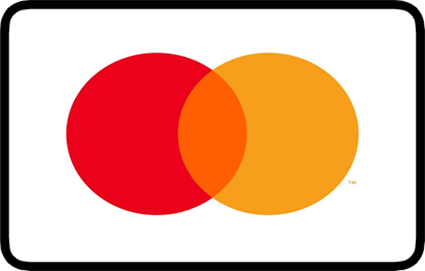
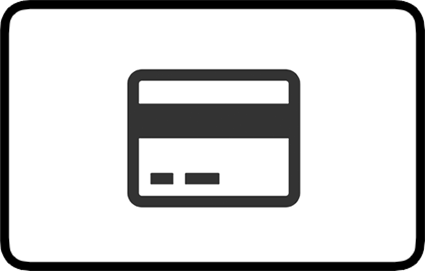
payment config

diff --git a/src/apps/events/admin/components/eventform/index.js b/src/apps/events/admin/components/eventform/index.js
@@ -1,11 +1,11 @@
 import ContactConfig from './contact_config'
 import TicketConfig from './ticket_config'
 import Confirmation from './confirmation'
-import TicketTypes from './ticket_types'
 import { Stack } from 'maha-admin'
 import PropTypes from 'prop-types'
 import Sessions from './sessions'
 import Programs from './programs'
+import Payment from './payment'
 import Event from './event'
 import React from 'react'
 
@@ -39,7 +39,7 @@ class EventForm extends React.PureComponent {
   _handlePop = this._handlePop.bind(this)
   _handlePush = this._handlePush.bind(this)
   _handleSessions = this._handleSessions.bind(this)
-  _handleTicketTypes = this._handleTicketTypes.bind(this)
+  _handlePayment = this._handlePayment.bind(this)
   _handleTicketConfig = this._handleTicketConfig.bind(this)
   _handleUpdate = this._handleUpdate.bind(this)
 
@@ -48,6 +48,7 @@ class EventForm extends React.PureComponent {
   }
 
   componentDidMount() {
+    // this._handlePush(Payment, this._getPayment())
     this._handlePush(Programs, this._getPrograms())
   }
 
@@ -78,6 +79,16 @@ class EventForm extends React.PureComponent {
       onBack: this._handlePop,
       onChange: this._handleUpdate,
       onDone: this._handleEvent
+    }
+  }
+
+  _getPayment() {
+    const { event } = this.state
+    return {
+      event,
+      onBack: this._handlePop,
+      onChange: this._handleUpdate,
+      onDone: this._handlePayment
     }
   }
 
@@ -118,16 +129,6 @@ class EventForm extends React.PureComponent {
     }
   }
 
-  _getTicketTypes() {
-    const { event } = this.state
-    return {
-      event,
-      onBack: this._handlePop,
-      onChange: this._handleUpdate,
-      onDone: this._handleTicketTypes
-    }
-  }
-
   _handleCancel() {
     this.context.modal.close()
   }
@@ -142,9 +143,19 @@ class EventForm extends React.PureComponent {
     this._handlePush(TicketConfig, this._getTicketConfig())
   }
 
+  _handleCreated({ data }) {
+    this.context.router.close()
+    this.context.modal.close()
+  }
+
   _handleEvent(event) {
     this._handleUpdate(event)
     this._handlePush(Sessions, this._getSessions())
+  }
+
+  _handlePayment({ payment_methods, ticket_types }) {
+    this._handleUpdate({ payment_methods, ticket_types })
+    this._handlePush(ContactConfig, this._getContactConfig())
   }
 
   _handlePrograms(program) {
@@ -180,24 +191,14 @@ class EventForm extends React.PureComponent {
     })
   }
 
-  _handleCreated({ data }) {
-    this.context.router.close()
-    this.context.modal.close()
-  }
-
   _handleSessions({ sessions }) {
     this._handleUpdate({ sessions })
-    this._handlePush(TicketTypes, this._getTicketTypes())
+    this._handlePush(Payment, this._getPayment())
   }
 
   _handleTicketConfig({ ticket_config }) {
     this._handleUpdate({ ticket_config })
     this._handlePush(Confirmation, this._getConfirmation())
-  }
-
-  _handleTicketTypes({ ticket_types }) {
-    this._handleUpdate({ ticket_types })
-    this._handlePush(ContactConfig, this._getContactConfig())
   }
 
   _handleUpdate(value) {

diff --git a/src/apps/events/admin/components/eventform/payment.js b/src/apps/events/admin/components/eventform/payment.js
@@ -1,0 +1,66 @@
+import TicketTypesField from '../tickettypesfield'
+import PropTypes from 'prop-types'
+import { Form } from 'maha-admin'
+import React from 'react'
+
+class TicketTypes extends React.PureComponent {
+
+  static propTypes = {
+    event: PropTypes.object,
+    onBack: PropTypes.func,
+    onChange: PropTypes.func,
+    onDone: PropTypes.func
+  }
+
+  _handleBack = this._handleBack.bind(this)
+  _handleChange = this._handleChange.bind(this)
+  _handleSuccess = this._handleSuccess.bind(this)
+
+  render() {
+    return <Form { ...this._getForm() } />
+  }
+
+  _getForm() {
+    const { event } = this.props
+    return {
+      title: 'Payment',
+      cancelIcon: 'chevron-left',
+      saveText: 'Next',
+      onCancel: this._handleBack,
+      onChange: this._handleChange,
+      onSuccess: this._handleSuccess,
+      sections: [
+        {
+          fields: [
+            { label: 'Ticket Types', name: 'ticket_types', type: TicketTypesField, required: true, defaultValue: event.ticket_types },
+            { label: 'Accepted Payment Methods', name: 'payment_methods', type: 'checkboxes', required: true, options: [
+              { value: 'card', text: 'Credit Card' },
+              { value: 'ach', text: 'ACH' },
+              { value: 'paypal', text: 'PayPal' },
+              { value: 'googlepay', text: 'GooglePay' },
+              { value: 'applepay', text: 'ApplePay' },
+              { value: 'door', text: 'Pay at door' }
+            ], defaultValue: event.payment_methods || ['card','ach','paypal','googlepay','applepay','door'] }
+          ]
+        }
+      ]
+    }
+  }
+
+  _handleBack() {
+    this.props.onBack()
+  }
+
+  _handleChange({ payment_methods, ticket_types }) {
+    const payment_config = { payment_methods }
+    this.props.onChange({ payment_config, ticket_types })
+  }
+
+  _handleSuccess({ payment_methods, ticket_types }) {
+    const payment_config = { payment_methods }
+    this.props.onDone({ payment_config, ticket_types })
+  }
+
+}
+
+export default TicketTypes

diff --git a/src/apps/events/web/registration/components/registration/step4/index.js b/src/apps/events/web/registration/components/registration/step4/index.js
@@ -1,12 +1,15 @@
 import { Button, Loader } from 'maha-client'
 import PropTypes from 'prop-types'
 import React from 'react'
+import _ from 'lodash'
 
 const methods = [
-  { label: 'Google Pay', name: 'googlepay', component: <div>GooglePay</div> },
-  { label: 'PayPal', name: 'paypal', component: <div>PayPal</div> },
   { label: 'Credit Card', name: 'card', component: <div>Card</div> },
-  { label: 'Bank Account', name: 'ach', component: <div>ACH</div> }
+  { label: 'Bank Account', name: 'ach', component: <div>ACH</div> },
+  { label: 'PayPal', name: 'paypal', component: <div>PayPal</div> },
+  { label: 'Google Pay', name: 'googlepay', component: <div>GooglePay</div> },
+  { label: 'ApplePay', name: 'applepay', component: <div>ApplePay</div> },
+  { label: 'Pay at the door', name: 'door', component: <div>Pay at the door</div> }
 ]
 
 class Step4 extends React.Component {
@@ -22,6 +25,7 @@ class Step4 extends React.Component {
   _handleNext = this._handleNext.bind(this)
 
   render() {
+    const methods = this._getMethods()
     const { status } = this.props
     return (
       <div className="registration-panel">
@@ -70,6 +74,14 @@ class Step4 extends React.Component {
       disabled: status !== 'pending',
       handler: this._handleBack
     }
+  }
+
+  _getMethods() {
+    const { event } = this.props
+    const { payment_methods } = event.payment_config
+    return payment_methods.map(name => {
+      return _.find(methods, { name })
+    })
   }
 
   _getNext() {

diff --git a/src/core/admin/components/form/select/style.less b/src/core/admin/components/form/select/style.less
@@ -15,7 +15,6 @@
   }
 }
 .maha-select-option {
-  border-bottom: 1px solid fadeout(@black, 90);
   display: flex;
   cursor: pointer;
   &.selected {
@@ -32,7 +31,7 @@
 }
 .maha-select-option-icon {
   display: flex;
-  padding: 0.4em 0 0.4em 0.8em;
+  padding: 0.4em 0 0.4em 0.4em;
   i {
     color: fadeout(@black, 80);
     margin: auto;
@@ -40,7 +39,12 @@
   }
 }
 .maha-select-option-label {
+  display: flex;
   flex: 1;
   line-height: 1.6em;
   color: fadeout(@black, 40);
+  .token {
+    padding: 0.4em 0.8em;
+    flex: 1;
+  }
 }

diff --git a/src/apps/events/serializers/event_serializer.js b/src/apps/events/serializers/event_serializer.js
@@ -8,6 +8,7 @@ const EventSerializer = (req, result) => ({
   image: result.related('image') ? result.related('image').get('path') : null,
   contact_config: result.get('contact_config'),
   ticket_config: result.get('ticket_config'),
+  payment_config: result.get('payment_config'),
   organizers: result.related('organizers').map(organizer),
   program: program(result.related('program')),
   email: email(result.related('email')),

diff --git a/src/apps/events/admin/api/events/create.js b/src/apps/events/admin/api/events/create.js
@@ -36,7 +36,7 @@ const createRoute = async (req, res) => {
     team_id: req.team.get('id'),
     program_id: program.get('id'),
     code,
-    ...whitelist(req.body, ['title','description','image_id','contact_config','ticket_config'])
+    ...whitelist(req.body, ['title','description','image_id','contact_config','ticket_config','payment_config'])
   }).save(null, {
     transacting: req.trx
   })

diff --git a/src/apps/events/public/server/registrations/show.js b/src/apps/events/public/server/registrations/show.js
@@ -65,7 +65,8 @@ const showRoute = async (req, res) => {
         sales_close_at: ticket_type.get('sales_close_at')
       })),
       contact_config: event.get('contact_config'),
-      ticket_config: event.get('ticket_config')
+      ticket_config: event.get('ticket_config'),
+      payment_config: event.get('payment_config')
     },
     token: encode({ code: event.get('code') }, 60 * 30)
   })

diff --git a/src/apps/events/admin/api/events/update.js b/src/apps/events/admin/api/events/update.js
@@ -24,7 +24,7 @@ const updateRoute = async (req, res) => {
   })
 
   await event.save({
-    ...whitelist(req.body, ['title','description','image_id'])
+    ...whitelist(req.body, ['title','description','image_id','contact_config','ticket_config','payment_config'])
   }, {
     transacting: req.trx
   })

diff --git a/src/apps/events/web/registration/components/registration/step4/style.less b/src/apps/events/web/registration/components/registration/step4/style.less
@@ -22,12 +22,12 @@
   }
 }
 .registration-method-mark {
-  padding: 0.8em 0 0.8em 0.8em;
+  padding: 0.4em 0 0.4em 0.8em;
   display: flex;
   align-items: center;
   img {
-    width: 50px;
-    height: 32px;
+    width: 40px;
+    height: 25px;
     display: block;
   }
 }

diff --git a/src/schema.js b/src/schema.js
@@ -839,6 +839,7 @@ const schema = {
       table.string('permalink', 255)
       table.jsonb('contact_config')
       table.jsonb('ticket_config')
+      table.jsonb('payment_config')
     })
 
     await knex.schema.createTable('events_events_organizers', (table) => {

diff --git a/src/apps/events/db/migrations/20200403213749_add_event_config.js b/src/apps/events/db/migrations/20200403213749_add_event_config.js
@@ -6,6 +6,7 @@ const AddEventConfig = {
       table.string('permalink')
       table.jsonb('contact_config')
       table.jsonb('ticket_config')
+      table.jsonb('payment_config')
     })
   },
 
